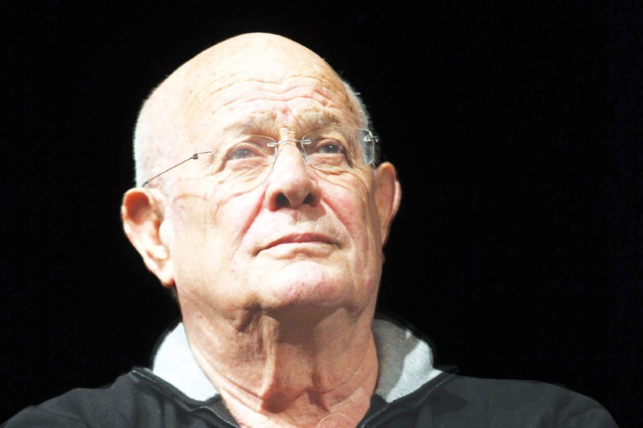
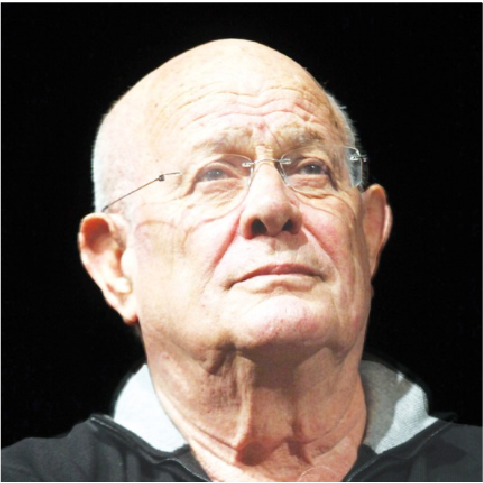
for now

diff --git a/src/pages/people/consts.js b/src/pages/people/consts.js
@@ -275,7 +275,7 @@ export const personalities = [
     type: `ערב המלחמה`,
     name: "עמוס גלבוע",
     miniTitle: `הוזהר שיוצא מהדיון רגע לפני תחילת המלחמה רק כי "העז" לחלוק על הקונספציה`,
-    pic: require("../../assets/pictures/amos.jpg"),
+    pic: require("../../assets/pictures/amos.png"),
     text: `עמוס גלבוע ז"ל היה קצין בדרגת תת אלוף, אשר לימים שימש כראש חטיבת המחקר באגף המודיעין. גלבוע שירת בחטיבת גולני בה שימש כמפקד מחלקה. גלבוע השתחרר ולמד באוניברסיטה העברית לימודי מזרח תיכון וערבית. הוא התגייס שוב, ושימש במגוון תפקידים בחיל המודיעין. לפני מלחמת יום הכיפורים שימש גלבוע כראש המדור הצבאי בענף 5 – הענף שעסק באותם ימים בצבא סוריה, עיראק ולבנון. גלבוע היה אמור להתמנות לראש הענף במקום אביעזר יערי, אך בזמן שחיכה לכניסה לתפקיד פרצה המלחמה.
     עמוס גלבוע היה מבין הקצינים הבודדים שהתריעו על האפשרות של פריצת מלחמה בגזרה הצפונית. במהלך ישיבת מחלקת המחקר שהתקיימה ב-2 לאוקטובר, ימים לפני מלחמת יום הכיפורים, עדכן אביעזר יערי, כאמור ראש ענף 5, כי כוחות סורים נפרסים סמוך לגולן. הכוחות שנפרסו הם חטיבה משוריינת 47 שהוצבה בצפון סוריה בעיר חמאה, וכן גדוד גישור סורי שהוצב בצפון סוריה וגם ירד לחזית רמת הגולן. בנוסף, במבצע שנערך ביוני 72' ונקרא 'מבצע ארגז', נחטפו חמישה קציני צבא בכירים סורים. הם סיפרו בחקירתם שחטיבה 47 תעבור לחזית רמת הגולן רק במידה שסוריה תרצה לפרוץ במלחמה. 
     עמוס גלבוע, טען שהעובדה שהחטיבה ירדה לחזית היא סימן מעיד למלחמה. אריה שלו, ראש מחלקת המחקר דאז, חלק עליו והציע שמטרות הירידה הגנתיות בלבד. על פי עדותו בוועדת אגרנט של יוסי זעירא (רע"ן ב"ר ב-848, יחידת ההאזנה שקדמה להפיכתה ליחידה 8200), גלבוע לא ויתר וטען שוב ושוב שאי אפשר להתעלם מכך ואפילו התפרץ לעבר אריה שלו, אך לא הצליח לשכנע אותו ואף הוזהר שיוצא מהדיון. 
